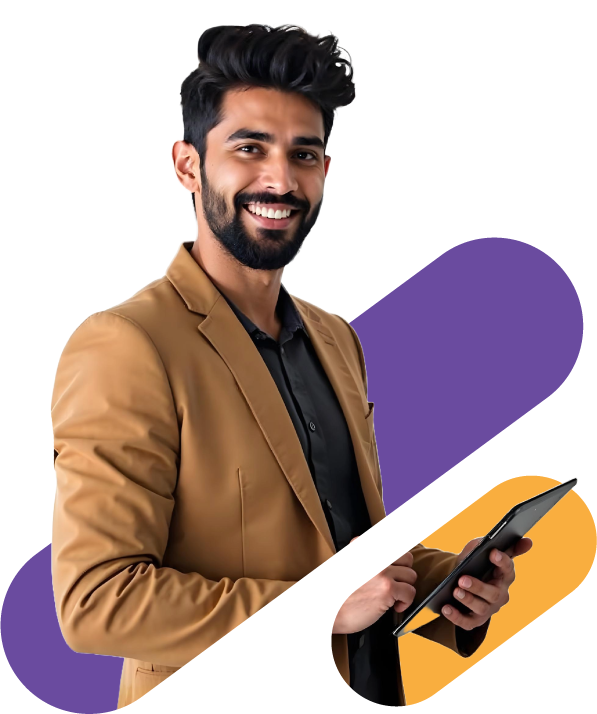
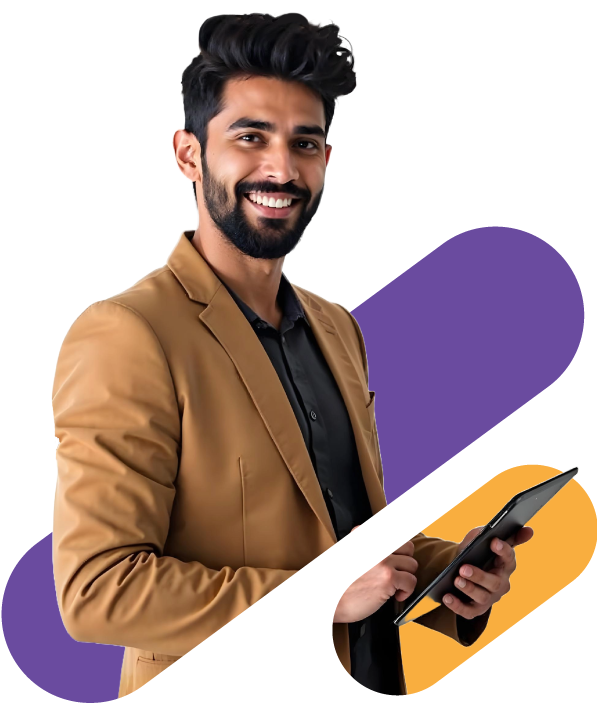
updated

diff --git a/src/components/Pricing.tsx b/src/components/Pricing.tsx
@@ -29,45 +29,39 @@ const pricingList: PricingProps[] = [
     title: "Free",
     popular: 0,
     price: 0,
-    description:
-      "Lorem ipsum dolor sit, amet ipsum consectetur adipisicing elit.",
-    buttonText: "Contact US",
+    description: "Perfect for individuals or small teams getting started.",
+    buttonText: "Contact Us",
     benefitList: [
       "1 Team member",
       "2 GB Storage",
       "Upto 4 pages",
       "Community support",
-      "lorem ipsum dolor",
     ],
   },
   {
     title: "Premium",
     popular: 1,
     price: 5,
-    description:
-      "Lorem ipsum dolor sit, amet ipsum consectetur adipisicing elit.",
-    buttonText: "Contact US",
+    description: "Great for growing teams needing more flexibility.",
+    buttonText: "Contact Us",
     benefitList: [
       "4 Team member",
       "4 GB Storage",
       "Upto 6 pages",
       "Priority support",
-      "lorem ipsum dolor",
     ],
   },
   {
     title: "Enterprise",
     popular: 0,
     price: 40,
-    description:
-      "Lorem ipsum dolor sit, amet ipsum consectetur adipisicing elit.",
-    buttonText: "Contact US",
+    description: "Ideal for businesses needing advanced features and support.",
+    buttonText: "Contact Us",
     benefitList: [
       "10 Team member",
       "8 GB Storage",
       "Upto 10 pages",
       "Priority support",
-      "lorem ipsum dolor",
     ],
   },
 ];
@@ -116,7 +110,7 @@ export const Pricing = () => {
 
             <CardContent>
               <Button
-                className="w-full"
+                className="w-full text-base font-bold hover:bg-primary cursor-pointer hover:text-white  "
                 onClick={() => (window.location.href = "#request-demo")}
               >
                 {pricing.buttonText}

diff --git a/src/components/mode-toggle.tsx b/src/components/mode-toggle.tsx
@@ -14,11 +14,7 @@ export function ModeToggle() {
   return (
     <DropdownMenu>
       <DropdownMenuTrigger asChild>
-        <Button
-          variant="ghost"
-          size="icon"
-          className="ghost"
-        >
+        <Button variant="ghost" size="icon" className="ghost">
           <Sun className="h-[1.1rem] w-[1.2rem] rotate-0 scale-100 transition-all dark:-rotate-90 dark:scale-0" />
           <Moon className="absolute h-[1.1rem] w-[1.2rem] rotate-90 scale-0 transition-all dark:rotate-0 dark:scale-100" />
           <span className="sr-only">Toggle theme</span>
@@ -30,9 +26,6 @@ export function ModeToggle() {
         </DropdownMenuItem>
         <DropdownMenuItem onClick={() => setTheme("dark")}>
           Dark
-        </DropdownMenuItem>
-        <DropdownMenuItem onClick={() => setTheme("system")}>
-          System
         </DropdownMenuItem>
       </DropdownMenuContent>
     </DropdownMenu>

diff --git a/src/components/Features.tsx b/src/components/Features.tsx
@@ -58,15 +58,15 @@ export const Features = () => {
         All-in-One HRMS with Powerful Features
       </p>
 
-      <div className="flex flex-wrap md:justify-center gap-4">
+      <div className="flex flex-wrap  md:justify-center gap-4 ">
         {featureList.map((feature: string) => (
           <div
             key={feature}
-            className="hover:scale-105 transition-all duration-300"
+            className="hover:scale-105 transition-all duration-300 w-full md:w-fit"
           >
             <Badge
               variant="secondary"
-              className="text-sm hover:bg-primary cursor-default hover:text-black "
+              className="text-sm hover:bg-primary cursor-default hover:text-white"
             >
               {feature}
             </Badge>

diff --git a/src/components/FAQ.tsx b/src/components/FAQ.tsx
@@ -28,7 +28,7 @@ const FAQList: FAQProps[] = [
     question: "Why Choose Taloraa?",
     answer:
       "Taloraa is an intuitive and powerful Human Resource Management System (HRMS) designed to enhance workforce management, boost productivity, and streamline HR functions with ease. Whether you're managing employee records, recruitment, or performance.",
-    value: "item-2",
+    value: "item-6",
   },
   {
     question: "How secure is employee data in Taloraa?",

diff --git a/src/components/Newsletter.tsx b/src/components/Newsletter.tsx
@@ -85,7 +85,10 @@ export const Newsletter = () => {
             onChange={(e) => setEmail(e.target.value)}
             disabled={loading}
           />
-          <Button className="text-black font-bold" disabled={loading}>
+          <Button
+            className="text-black font-bold hover:text-white"
+            disabled={loading}
+          >
             {loading ? "Subscribing..." : "Subscribe"}
           </Button>
         </form>

diff --git a/src/components/Footer.tsx b/src/components/Footer.tsx
@@ -26,7 +26,7 @@ export const Footer = () => {
         <div className="flex flex-col gap-2"></div>
 
         <div className="flex flex-col gap-2">
-          <h3 className="font-bold text-lg">Follow US</h3>
+          <h3 className="font-bold text-lg">Follow Us</h3>
           <div>
             <a
               rel="noreferrer noopener"

diff --git a/src/components/RequestDemo.tsx b/src/components/RequestDemo.tsx
@@ -170,7 +170,7 @@ export const RequestDemo = () => {
 
           <Button
             type="submit"
-            className="text-black font-bold"
+            className="text-black font-bold hover:text-white"
             disabled={loading}
           >
             {loading ? "Submitting..." : "Request Demo"}
